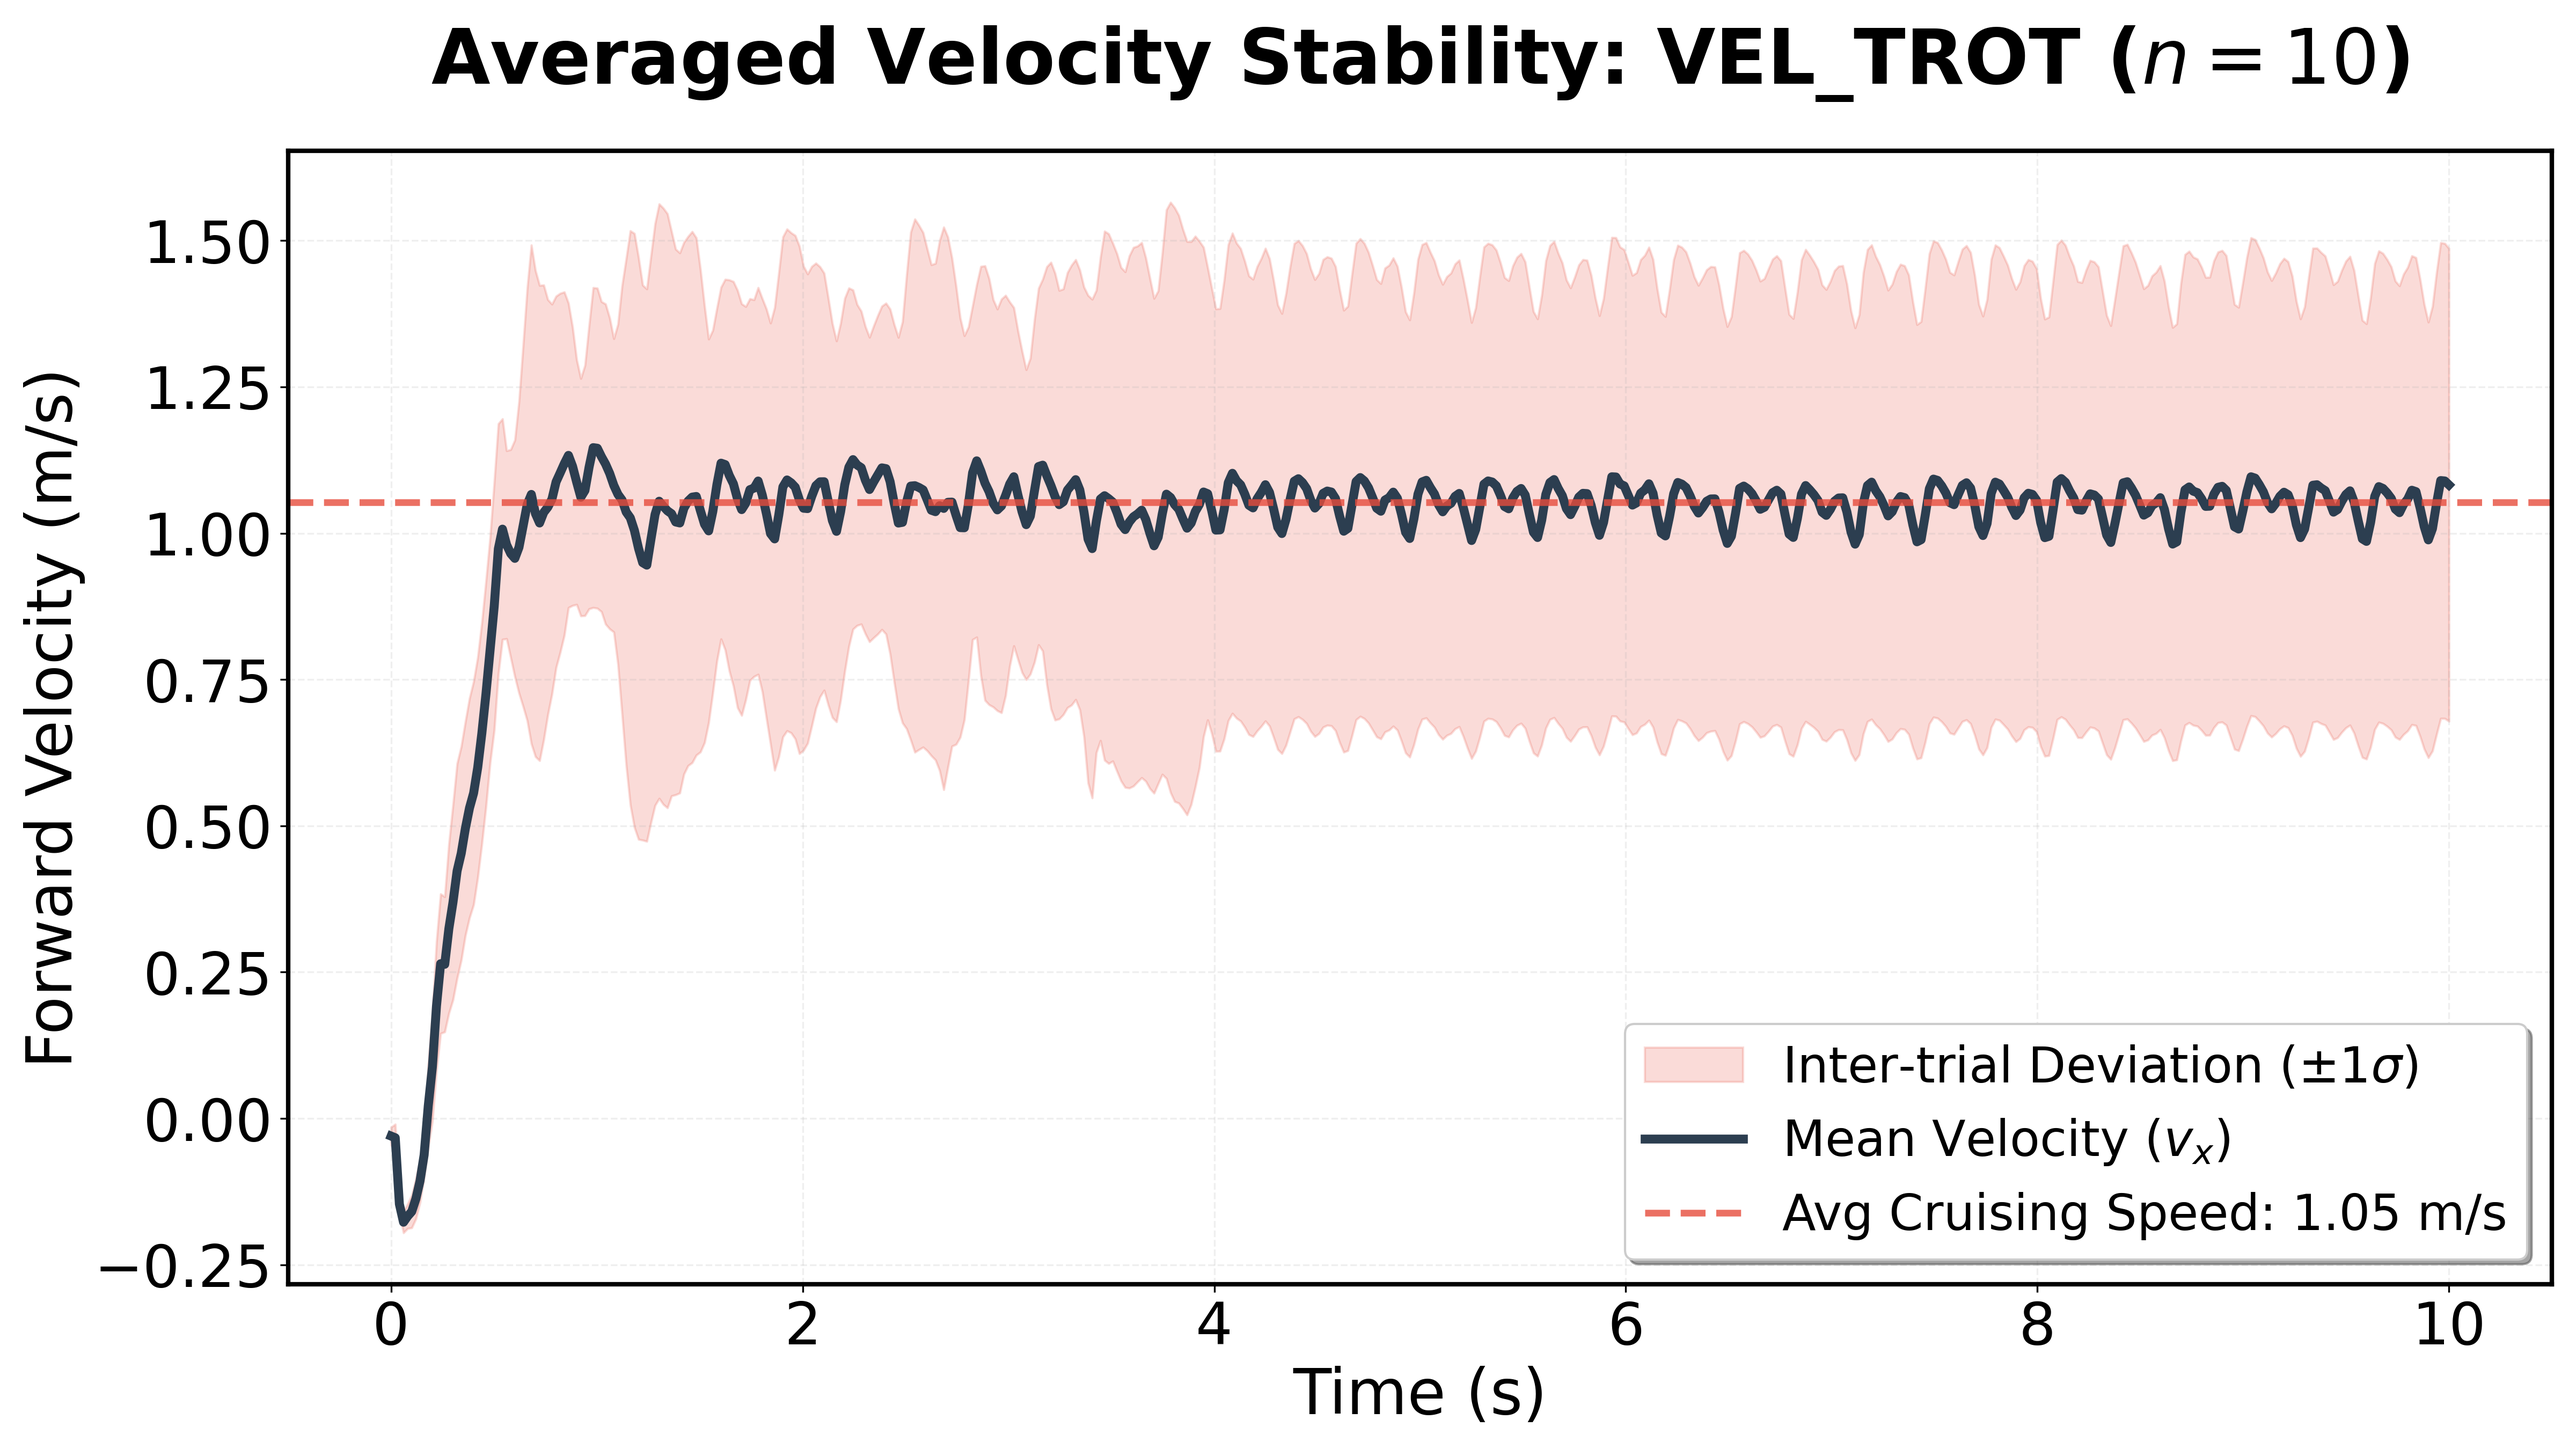
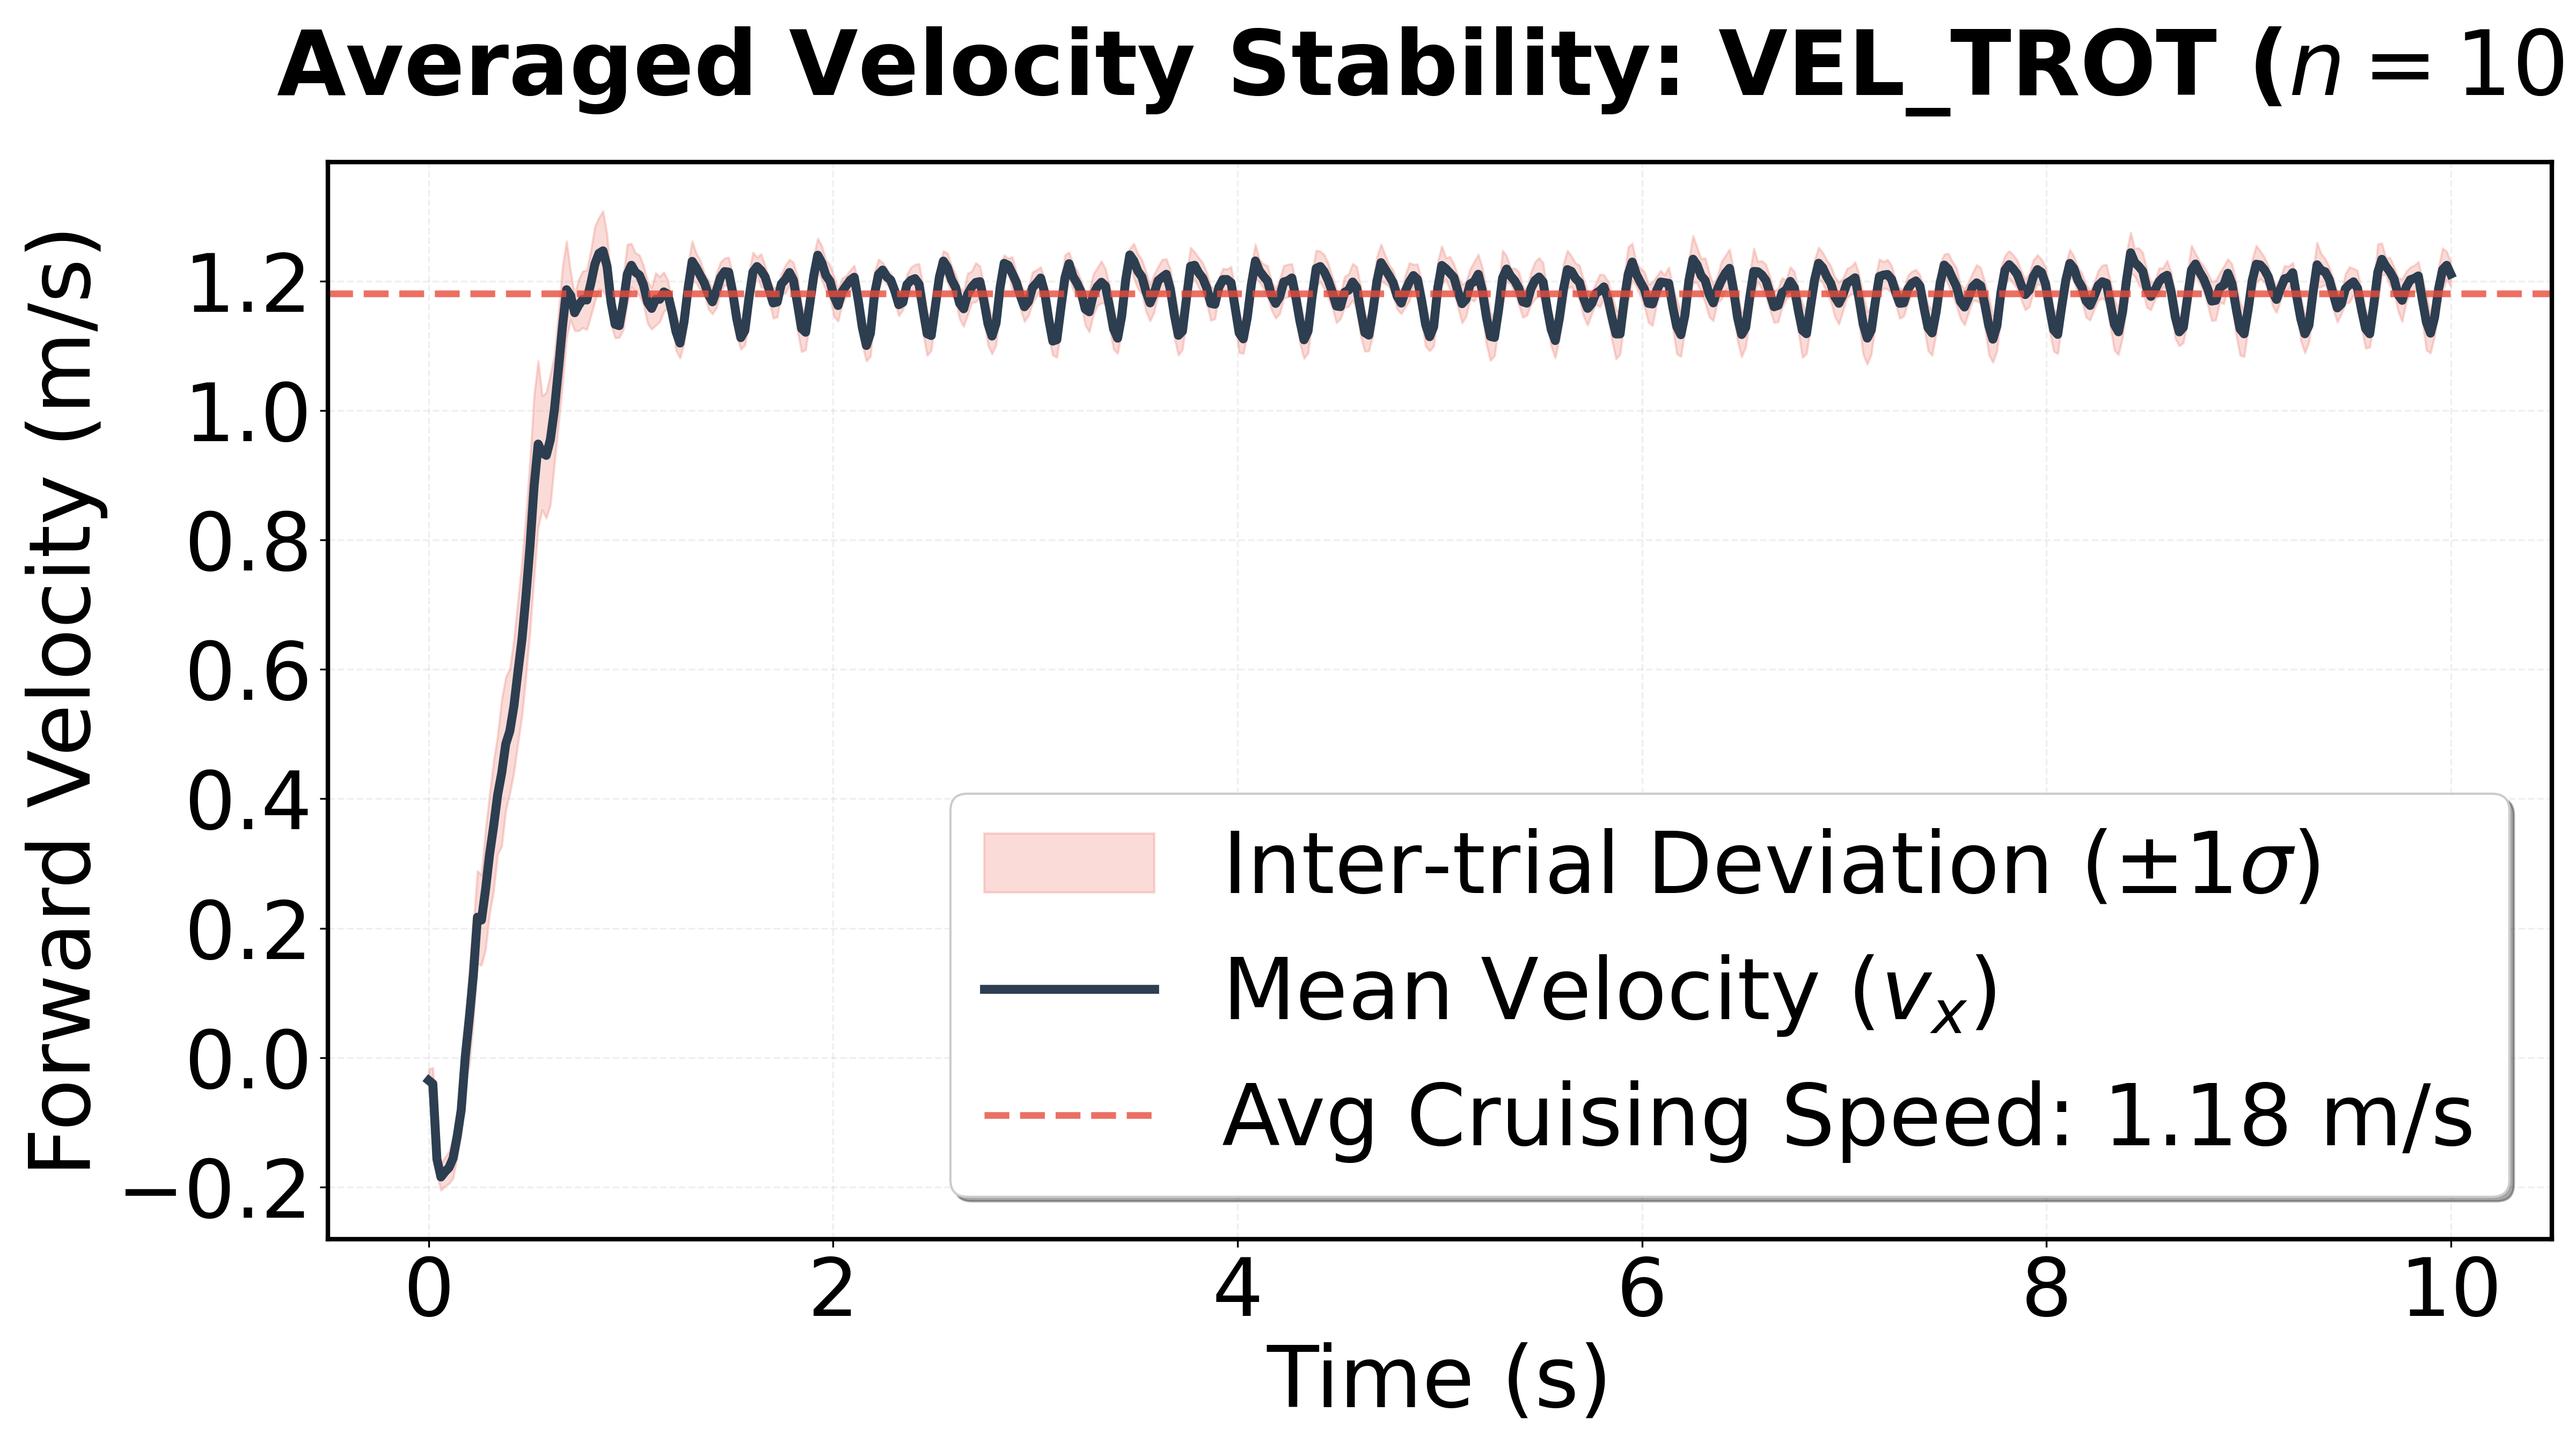
cleaned

diff --git a/compare_metrics.py b/compare_metrics.py
@@ -4,9 +4,9 @@ import numpy as np
 import matplotlib.pyplot as plt
 
 # Adjusted Formatting Flags for better fit
-TITLE_FS = 24  # Slightly reduced
-LABEL_FS = 22  # Slightly reduced
-TICK_FS  = 22  # Slightly reduced
+TITLE_FS = 24
+LABEL_FS = 22
+TICK_FS  = 22
 LINE_WIDTH = 4
 
 def load_metrics(run_name):
@@ -68,7 +68,6 @@ def plot_comparisons():
         bars = ax.bar(available_runs, values, color=colors[:len(available_runs)], 
                       edgecolor='#1B2631', linewidth=2, width=0.5)
         
-        # FIX: Dynamically set y-axis limit to 120% of max value to avoid cutting labels
         if values and max(values) > 0:
             ax.set_ylim(0, max(values) * 1.2)
         
@@ -78,7 +77,6 @@ def plot_comparisons():
         
         for bar in bars:
             height = bar.get_height()
-            # FIX: Added 'clip_on=False' to ensure text isn't cut by axes
             ax.text(bar.get_x() + bar.get_width()/2., height + (max(values)*0.02),
                     f'{height:.2f}', ha='center', va='bottom', 
                     fontsize=TICK_FS, fontweight='bold', clip_on=False)

diff --git a/run_noisy_velocity_test.py b/run_noisy_velocity_test.py
@@ -14,14 +14,14 @@ from utils.file_utils import get_latest_model
 # USER SETTINGS
 ###############################################################################
 LEARNING_ALG = "PPO" 
-EVAL_POLICY  = "VEL_TROT"  # "VEL_TROT" or "VEL_WALK"
+EVAL_POLICY  = "VEL_WALK"  # "VEL_TROT" or "VEL_WALK"
 N_TRIALS     = 10          # Number of trials to average
 MIN_GOOD_TIME_S = 10.0     # Duration per trial
 
 # Formal Plotting Constants
-TITLE_FS, LABEL_FS, TICK_FS = 34, 28, 26
-PRIMARY_COLOR   = '#2C3E50'   # Formal Navy
-SECONDARY_COLOR = '#E74C3C'   # Formal Red
+TITLE_FS, LABEL_FS, TICK_FS = 40, 38, 36
+PRIMARY_COLOR   = '#2C3E50'
+SECONDARY_COLOR = '#E74C3C'
 
 interm_dir = "./logs/intermediate_models/"
 log_dir    = os.path.join(interm_dir, EVAL_POLICY)
@@ -138,7 +138,7 @@ def main():
     plt.xticks(fontsize=TICK_FS)
     plt.yticks(fontsize=TICK_FS)
     plt.grid(True, alpha=0.2, ls='--')
-    plt.legend(fontsize=22, loc='lower right', frameon=True, shadow=True)
+    plt.legend(fontsize=LABEL_FS, loc='lower right', frameon=True, shadow=True)
     
     # Layout adjustment
     ax = plt.gca()

diff --git a/run_task_bounds_tests.py b/run_task_bounds_tests.py
@@ -22,8 +22,8 @@ TITLE_FS = 28
 LABEL_FS = 22
 TICK_FS  = 20
 LINE_WIDTH = 4
-PRIMARY_COLOR = '#2C3E50'   # Formal Navy
-SECONDARY_COLOR = '#E74C3C' # Formal Red
+PRIMARY_COLOR = '#2C3E50'
+SECONDARY_COLOR = '#E74C3C'
 
 interm_dir = "./logs/intermediate_models/"
 log_dir = os.path.join(interm_dir, EVAL_POLICY)
@@ -41,7 +41,7 @@ env_config = {
     "on_rack": False,
     "render": False,
     "record_video": False,
-    "add_noise": True, # ENABLED: Environment will now inject sensor noise
+    "add_noise": True,
     "task_env": "LR_COURSE_TASK",
     "cpg_gait": "TROT",
 }
